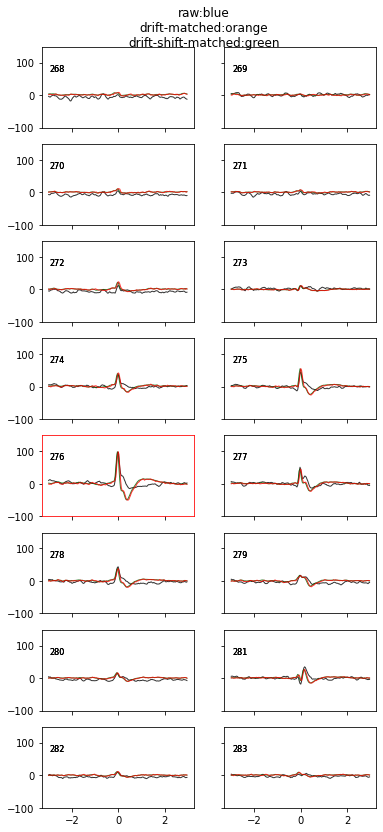
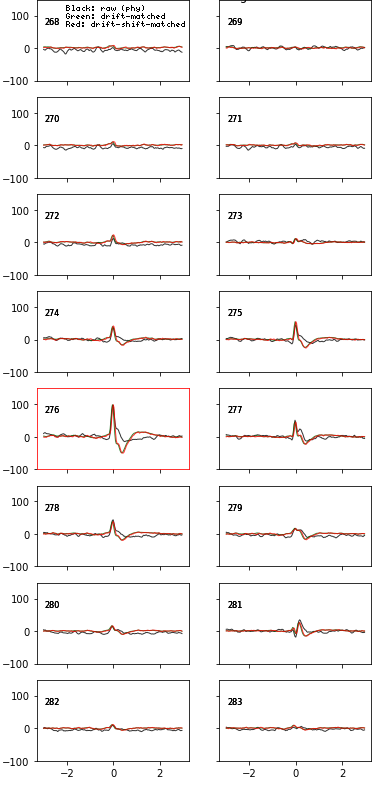
readme

Changed region(s): [[0.0296, 0.0, 1.0, 1.0]]

diff --git a/npyx/spk_wvf.py b/npyx/spk_wvf.py
@@ -447,7 +447,7 @@ def wvf_dsmatch(dp, u, n_waveforms=100, t_waveforms=82, periods='all',
         # mean_waves[np.random.randint(0, mean_waves.shape[0], batch_peak_channels.shape[0]),:,:]
         fig = quickplot_n_waves(np.mean(wave_baseline_toplot, axis=0), '', peak_channel, color='k')
         fig = quickplot_n_waves(np.mean(drift_matched_batches, axis=0), '', peak_channel, fig=fig, color='darkgreen')
-        fig = quickplot_n_waves(drift_shift_matched_mean, 'raw:blue\ndrift-matched:orange\ndrift-shift-matched:green', peak_channel, fig=fig, color='red')
+        fig = quickplot_n_waves(drift_shift_matched_mean, 'raw:black\ndrift-matched:green\ndrift-shift-matched:red', peak_channel, fig=fig, color='red')
         #breakpoint()
 
     return drift_shift_matched_mean_peak, drift_shift_matched_mean, drift_matched_spike_ids, peak_channel
